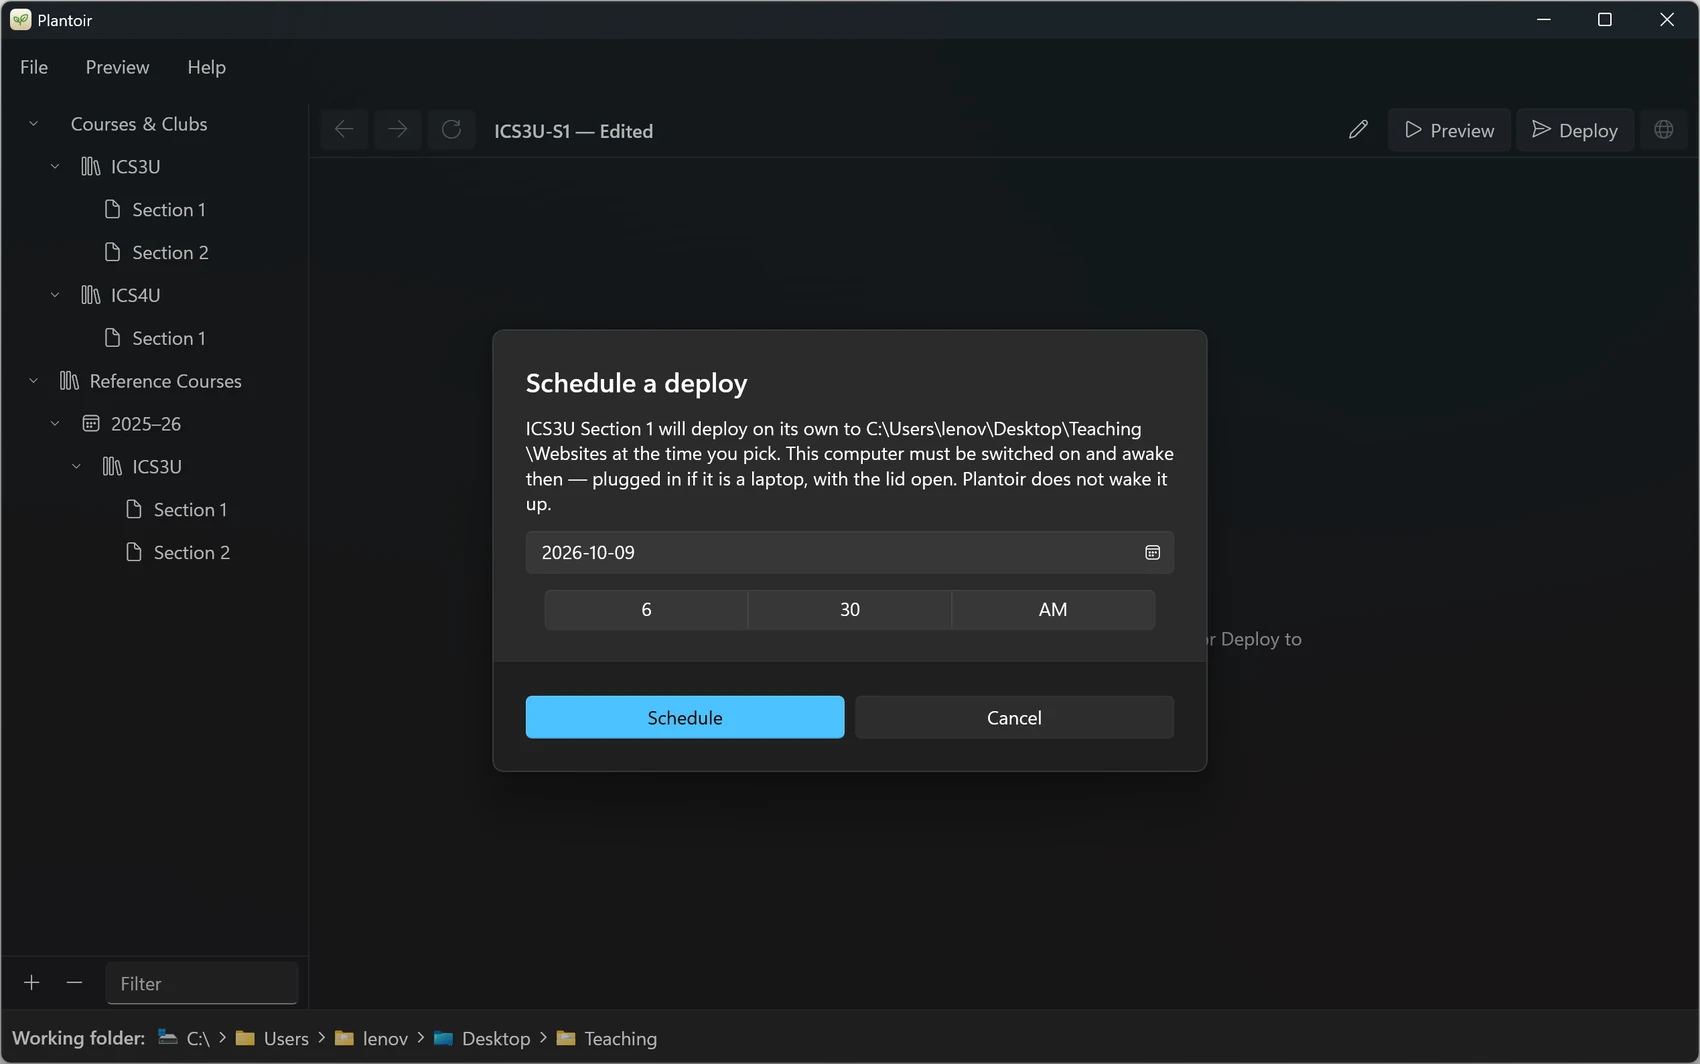
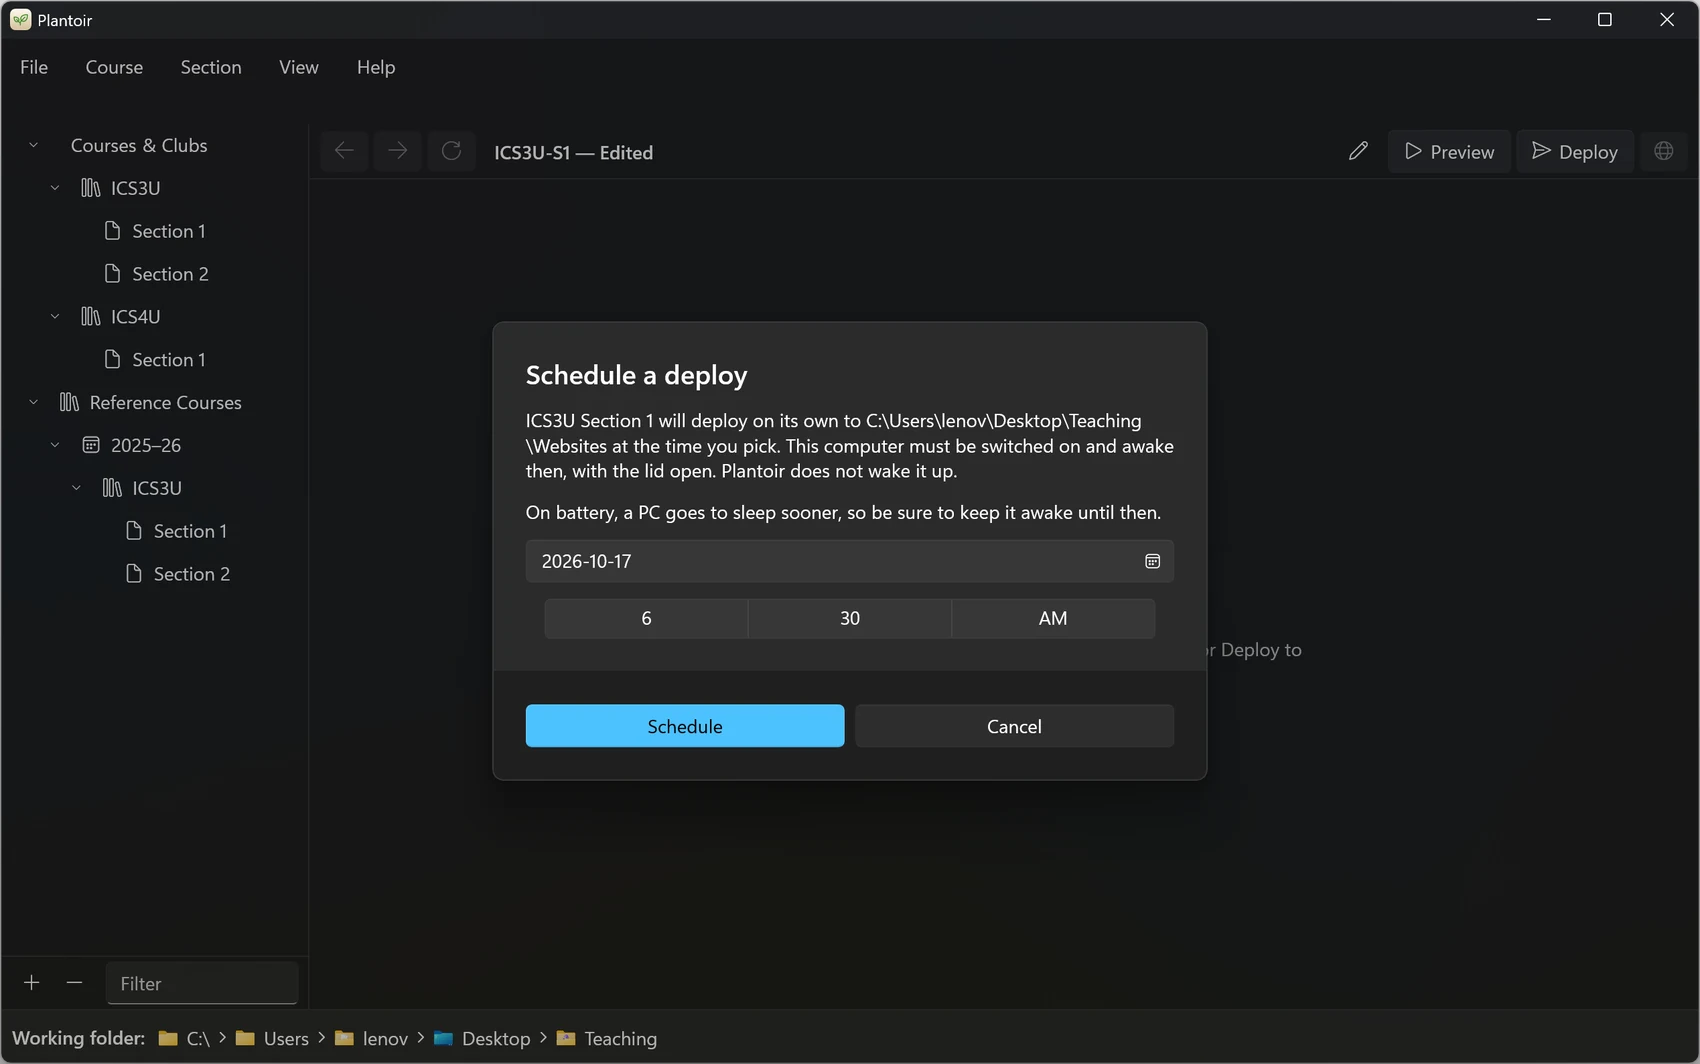
Windows print pictures at 2x, and the schedule sheet with #547's words (#544)
Retaken in a 3840 x 2034 Remote Desktop session at 200%, where
fitted_scale is 2.0 for both print framings: print-page-windows-light/dark
2560 x 1720 (were 1427 x 961) and print-handout-windows 1360 x 1760 (was
736 x 962), each exactly twice its DIP window, expectText read back by OCR.

images.prepare(path, None) now never scales, and the print set passes None
so the 1700 cap does not cut the 2x pages back. hero_windows.place_visible
sizes the visible frame (DWMWA_EXTENDED_FRAME_BOUNDS, what windowshot
photographs) instead of the window rectangle with its invisible border,
re-placing at most twice and failing loudly; used by capture_page(fit=True)
and photograph_pdf only. test_the_windows_print_pictures_are_twice_their_window
pins the sizes.

schedule-windows-light/dark retaken (captured 2538 x 1589, served 1700 x
1064 under the existing cap): OCR finds the battery line and neither
"plugged" nor "laptop". The first pass had a keyboard focus ring on the date
box; real SendInput mouse movement before each retake cleared it.

Gates: native_corners_refusal None, test_native_corners 23/23,
build.py --check green.

diff --git a/website/shots/hero_windows.py b/website/shots/hero_windows.py
@@ -204,6 +204,42 @@ def place(hwnd: int, x: int, y: int, width: int, height: int) -> None:
 
 
 
+def visible_frame(hwnd: int) -> tuple[int, int, int, int]:
+    """The window as it is SEEN -- `DWMWA_EXTENDED_FRAME_BOUNDS`, without the
+    invisible resize border Windows 11 keeps outside it -- as left, top,
+    width, height in physical pixels. windowshot photographs this frame."""
+    rect = wintypes.RECT()
+    ctypes.windll.dwmapi.DwmGetWindowAttribute(wintypes.HWND(hwnd), 9,  # DWMWA_EXTENDED_FRAME_BOUNDS
+                                               ctypes.byref(rect), ctypes.sizeof(rect))
+    return rect.left, rect.top, rect.right - rect.left, rect.bottom - rect.top
+
+
+def place_visible(hwnd: int, x: int, y: int, width: int, height: int) -> None:
+    """`place`, sized so the VISIBLE frame -- what windowshot photographs --
+    is `width` x `height`, not the window rectangle with its invisible
+    border (#544). Measured 2026-10-15 at the fitted 1.127 scale: a window
+    asked for 766 x 992 photographed at 736 x 962. The border is read, not
+    guessed (`GetWindowRect` against `DWMWA_EXTENDED_FRAME_BOUNDS`), and the
+    window placed again at most twice; a frame still not the size asked for
+    stops the run, since a picture of the wrong size frames a different page
+    from the mac's."""
+    asked_x, asked_y, asked_w, asked_h = x, y, width, height
+    for _ in range(3):
+        place(hwnd, x, y, width, height)
+        seen_x, seen_y, seen_w, seen_h = visible_frame(hwnd)
+        if abs(seen_w - asked_w) <= 1 and abs(seen_h - asked_h) <= 1:
+            return
+        window = wintypes.RECT()
+        user32.GetWindowRect(hwnd, ctypes.byref(window))
+        x = asked_x - (seen_x - window.left)
+        y = asked_y - (seen_y - window.top)
+        width = asked_w + (window.right - window.left) - seen_w
+        height = asked_h + (window.bottom - window.top) - seen_h
+    raise SystemExit(f"The window's visible frame is {seen_w}x{seen_h}, not the {asked_w}x{asked_h} asked for "
+                     f"(window rectangle {window.right - window.left}x{window.bottom - window.top}). "
+                     "Nothing past this point was taken.")
+
+
 def press_escape() -> None:
     """Dismiss a popover in the frontmost window."""
     VK_ESCAPE, KEYEVENTF_KEYUP = 0x1B, 0x0002
@@ -667,7 +703,8 @@ def capture_page(url: str, title_fragment: str, destination: Path, *,
                           flags=device_scale_flags(scale) if fit else ())
     try:
         hwnd = edge_window(process, "")
-        place(hwnd, x, y, width, height)
+        position = place_visible if fit else place
+        position(hwnd, x, y, width, height)
         press_escape()
         with sync_playwright() as playwright:
             browser = playwright.chromium.connect_over_cdp(f"http://127.0.0.1:{CDP_PORT}")
@@ -710,7 +747,7 @@ def capture_page(url: str, title_fragment: str, destination: Path, *,
                 # photographs with a heavy outline round it.
                 page.evaluate("document.activeElement && document.activeElement.blur()")
             time.sleep(1.0)
-            place(hwnd, x, y, width, height)   # in front, so its title bar is the active one
+            position(hwnd, x, y, width, height)   # in front, so its title bar is the active one
             if fragment and anchor_problem(page, fragment) is not None:
                 raise SystemExit(f"{url}: {anchor_problem(page, fragment)} (it moved before the shutter)")
             return photograph(hwnd, destination)

diff --git a/website/shots/print_set_windows.py b/website/shots/print_set_windows.py
@@ -293,8 +293,8 @@ def desktop_is_locked() -> bool:
 def photograph_pdf(pdf: Path, destination: Path) -> Path:
     """The PDF in an Edge `--app` window with the viewer's toolbar off: the
     page on the viewer's own background, as the Mac's handout window shows it."""
-    from hero_windows import (device_scale_flags, edge_window, fitted_scale, launch_edge, photograph, place,
-                              stop_matching, work_area, EDGE_PROFILE)
+    from hero_windows import (device_scale_flags, edge_window, fitted_scale, launch_edge, photograph,
+                              place_visible, stop_matching, work_area, EDGE_PROFILE)
     left, top, _, _ = work_area()
     scale = fitted_scale(HANDOUT_SIZE_DIP)
     width, height = round(HANDOUT_SIZE_DIP[0] * scale), round(HANDOUT_SIZE_DIP[1] * scale)
@@ -306,9 +306,9 @@ def photograph_pdf(pdf: Path, destination: Path) -> Path:
                           flags=device_scale_flags(scale))
     try:
         hwnd = edge_window(process, "")
-        place(hwnd, x, y, width, height)
+        place_visible(hwnd, x, y, width, height)   # the frame seen, not the border round it (#544)
         time.sleep(4.0)   # the viewer draws the page after the window appears
-        place(hwnd, x, y, width, height)
+        place_visible(hwnd, x, y, width, height)
         return photograph(hwnd, destination)
     finally:
         stop_matching("msedge.exe", str(EDGE_PROFILE))
@@ -345,7 +345,7 @@ def at_the_top(page) -> None:
 
 def capture_print_set(folder: Path = PRINT_FOLDER) -> None:
     from hero_windows import capture_page, make_dpi_aware, read_theme, write_theme
-    from images import prepare, WIDEST_WINDOW_PIXELS
+    from images import prepare
     page_shots = shots_of_kind("preview-page")
     handout_shots = shots_of_kind("handout")
     announce(f"Photographing what printing does, in {folder}")
@@ -370,7 +370,7 @@ def capture_print_set(folder: Path = PRINT_FOLDER) -> None:
                     must_show(part, shot)
                     destination = IMAGE_DIR / part.name
                     shutil.copyfile(part, destination)
-                    prepare(destination, WIDEST_WINDOW_PIXELS)
+                    prepare(destination, None)   # never scaled: 2x, like the mac's (#544)
                     print(f"   saved {destination.name} + WebP")
                 taken.append(shot["id"])
             write_theme(1, 1)   # paper is light
@@ -381,7 +381,7 @@ def capture_print_set(folder: Path = PRINT_FOLDER) -> None:
                 must_show(part, shot)
                 destination = IMAGE_DIR / part.name
                 shutil.copyfile(part, destination)
-                prepare(destination, WIDEST_WINDOW_PIXELS)
+                prepare(destination, None)   # never scaled: 2x, like the mac's (#544)
                 print(f"   saved {destination.name} + WebP")
                 taken.append(shot["id"])
         finally:

diff --git a/website/test_build_data.py b/website/test_build_data.py
@@ -513,6 +513,24 @@ class DarkStaticFigureTests(unittest.TestCase):
                 build.IMAGE_DIR = saved
 
 
+class WindowsPrintDensityTests(unittest.TestCase):
+
+    def test_the_windows_print_pictures_are_twice_their_window(self):
+        # #544: the Windows print pictures stand beside the mac's 2x ones in
+        # the same <picture>, so they are taken at 2x too -- the 680 x 880 DIP
+        # handout window and the 1280 x 860 page window, in a 3840 x 2034
+        # session at 200% (2026-10-16) -- and served unscaled
+        # (`images.prepare(path, None)`). At the 1080-pixel console's fitted
+        # scale they were 736 x 962 and 1427 x 961, and looked soft.
+        from PIL import Image
+        with Image.open(build.IMAGE_DIR / "print-handout-windows.png") as handout:
+            self.assertGreaterEqual(handout.size[0], 1360)
+            self.assertGreaterEqual(handout.size[1], 1760)
+        for theme in ("light", "dark"):
+            with Image.open(build.IMAGE_DIR / f"print-page-windows-{theme}.png") as page:
+                self.assertGreaterEqual(page.size[0], 2560, theme)
+
+
 class AwaitingCaptureTests(unittest.TestCase):
 
     def test_a_shot_awaiting_capture_renders_nothing_and_is_not_a_problem(self):

diff --git a/website/shots/images.py b/website/shots/images.py
@@ -59,16 +59,19 @@ def serve_as_captured(path: Path) -> Path:
     return path
 
 
-def prepare(path: Path, widest: int = WIDEST_WINDOW_PIXELS) -> Path:
+def prepare(path: Path, widest: int | None = WIDEST_WINDOW_PIXELS) -> Path:
     """Scale a capture down if it is oversized, then write PNG and WebP.
 
     For the PHONE picture and the Windows pictures only. A Mac window capture
-    goes through `serve_as_captured`, which never scales (#434).
+    goes through `serve_as_captured`, which never scales (#434). `widest=None`
+    never scales either: the Windows print pictures (#544) are taken at 2x to
+    stand beside the mac's 2x pictures, and the 1700 cap would cut a
+    2560-pixel page picture back to a density the mac's does not have.
     """
     with Image.open(path) as opened:
         image = opened.convert("RGBA")
 
-    if image.width > widest:
+    if widest is not None and image.width > widest:
         height = round(image.height * widest / image.width)
         image = image.resize((widest, height), Image.LANCZOS)
 

diff --git a/website/SCREENSHOTS.md b/website/SCREENSHOTS.md
@@ -137,7 +137,16 @@ uncloaked window; FindWindowEx by `Windows.UI.Core.CoreWindow` and UI
 Automation's desktop root showed no notification. A screen crop is what the
 rule forbids. Its Windows alt (`windowsAlt`) says what the picture shows and
 that Windows tells the teacher with a notification once the deploy has run;
-the shared caption is true of both pictures, so it is not swapped. The gate judges every
+the shared caption is true of both pictures, so it is not swapped. Retaken
+2026-10-16 (#544, after #547 changed the sheet's words) at 2538 × 1589 px
+in the 200% session — served at 1700 × 1064 by `prepare()`'s cap — and read
+back by `windowshot --ocr` in both themes: "On battery, a PC goes to sleep
+sooner, so be sure to keep it awake until then." is there, and neither
+"plugged" nor "laptop" is. The first pass of both themes had a keyboard
+focus ring round the date box (the 1.4.4 trap, commit 7a91dceba: the run
+before it had pressed Escape in Edge, so the last input Windows saw was the
+keyboard); real mouse movement through `SendInput` just before each
+`app_scenes_windows.py --retake schedule:<theme>` cleared it. The gate judges every
 `-windows` picture (`corners.images_the_pages_show(..., include_windows=True)`
 in `test_native_corners.py` and in `build.py`'s `native_corners_refusal`);
 the interim list of three retaken figures, `WINDOWS_FIGURES_RETAKEN`, is gone.
@@ -298,17 +307,29 @@ the handout's 10-pixel footer, "Page 1 of 1", was not read at all at 1x on a
 1080-pixel screen). The windows are the mac's sizes in DIPs, and on a screen
 too small for them at its own scale (1920 × 1080 at 150%, 2026-10-15) Edge
 is told to draw at a smaller one (`hero_windows.fitted_scale`, 1.15 there)
-so the page keeps the mac's framing with fewer pixels — 1427 × 961 for the
-page, 736 × 962 for the handout, shown whole (`view=Fit`). First taken on an
-unlocked desktop on 2026-10-15. That is why they are soft beside the mac's
-2× pictures (#544), and **the console cannot fix it by drawing a window
-bigger than the screen**: measured 2026-10-16, an Edge `--app` window at
-`--force-device-scale-factor=2` asked for 680 × 880 DIPs, then
-`SetWindowPos` 1360 × 1760, kept its width and was clamped to 1106 px tall
-(the screen's 1080 plus the frame — Windows' maximum tracking size). A 2×
-retake needs a 3840 × 2160 session at 200%, where `fitted_scale` is 2.0
-for both framings; `prepare()`'s 1700-px cap would then have to be lifted
-for these pictures. When all three are taken
+so the page keeps the mac's framing with fewer pixels — which made the first
+pictures (1427 × 961 for the page, 736 × 962 for the handout) soft beside the
+mac's 2× ones (#544). **They are taken at 2× now, and need a session that
+can hold a 2× window**: retaken 2026-10-16 in a Remote Desktop session of
+3840 × 2034 at 200% (work area 3840 × 1938), where `fitted_scale` is 2.0 for
+both framings with no code change — **2560 × 1720** for
+`print-page-windows-light/-dark.png` and **1360 × 1760** for
+`print-handout-windows.png`, each exactly twice its DIP window, with
+`expectText` read back by OCR. The console cannot
+do it by drawing a window bigger than the screen: measured 2026-10-16, an
+Edge `--app` window at `--force-device-scale-factor=2` asked for 680 × 880
+DIPs, then `SetWindowPos` 1360 × 1760, kept its width and was clamped to
+1106 px tall (the screen's 1080 plus the frame — Windows' maximum tracking
+size). Two harness changes went with the retake: `images.prepare(path, None)`
+never scales (the print set passes `None`; the 1700-px cap would have cut the
+page back to the old density), and `hero_windows.place_visible` sizes the
+VISIBLE frame — `DWMWA_EXTENDED_FRAME_BOUNDS`, which windowshot photographs —
+rather than the window rectangle with Windows 11's invisible border round it
+(at the fitted 1.127 scale a window asked for 766 × 992 photographed at
+736 × 962), placing again at most twice and stopping the run if the frame is
+still not the size asked for. `website/test_build_data.py` →
+`test_the_windows_print_pictures_are_twice_their_window` pins the sizes.
+When all three are taken
 the run marks both shots `windows: true`; take them off
 `WINDOWS_PICTURE_OWED` in `website/test_build_data.py` in the same commit.
 The preview is stopped with `preview.ps1 MPM2D 1 --stop`; the folder and its
